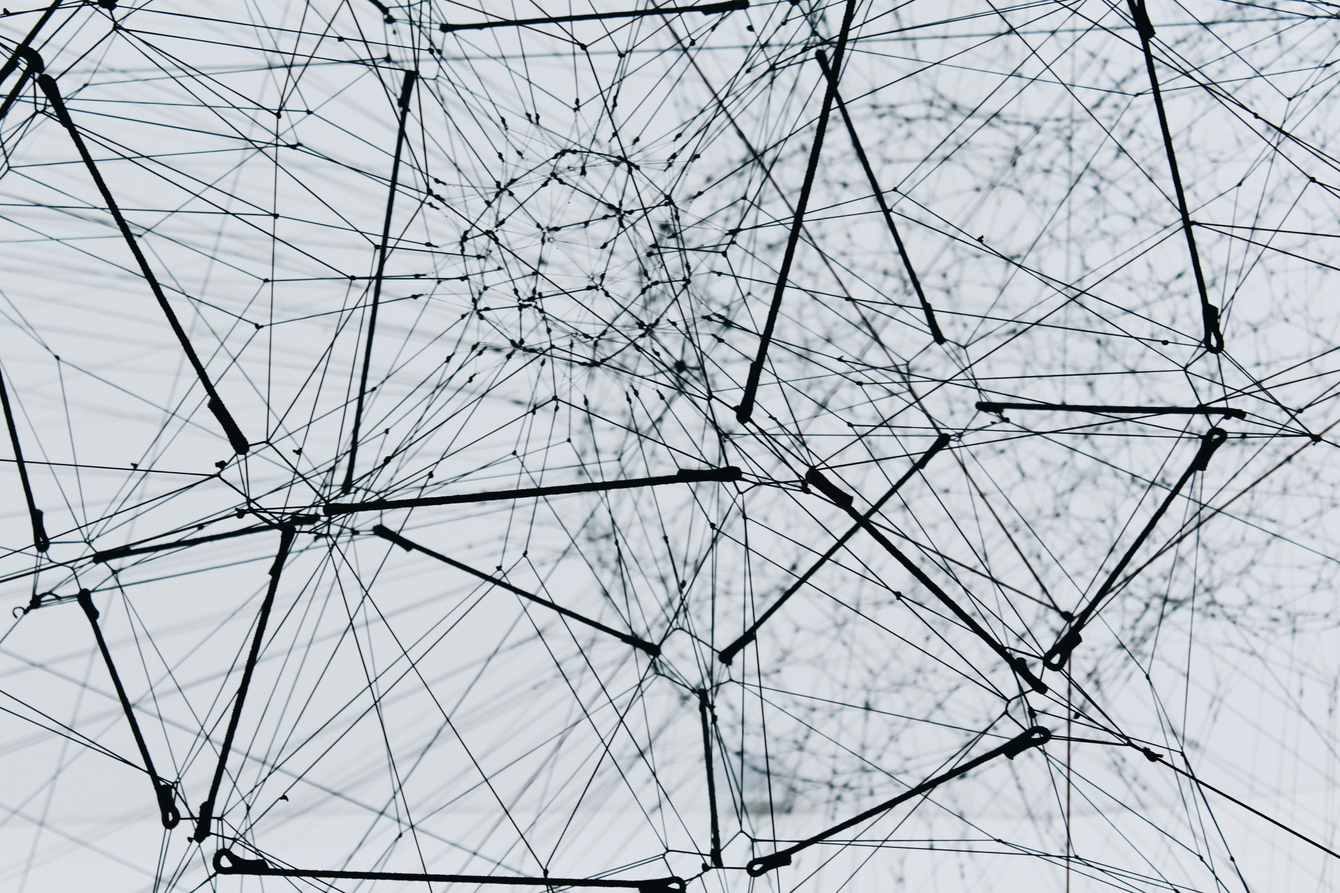
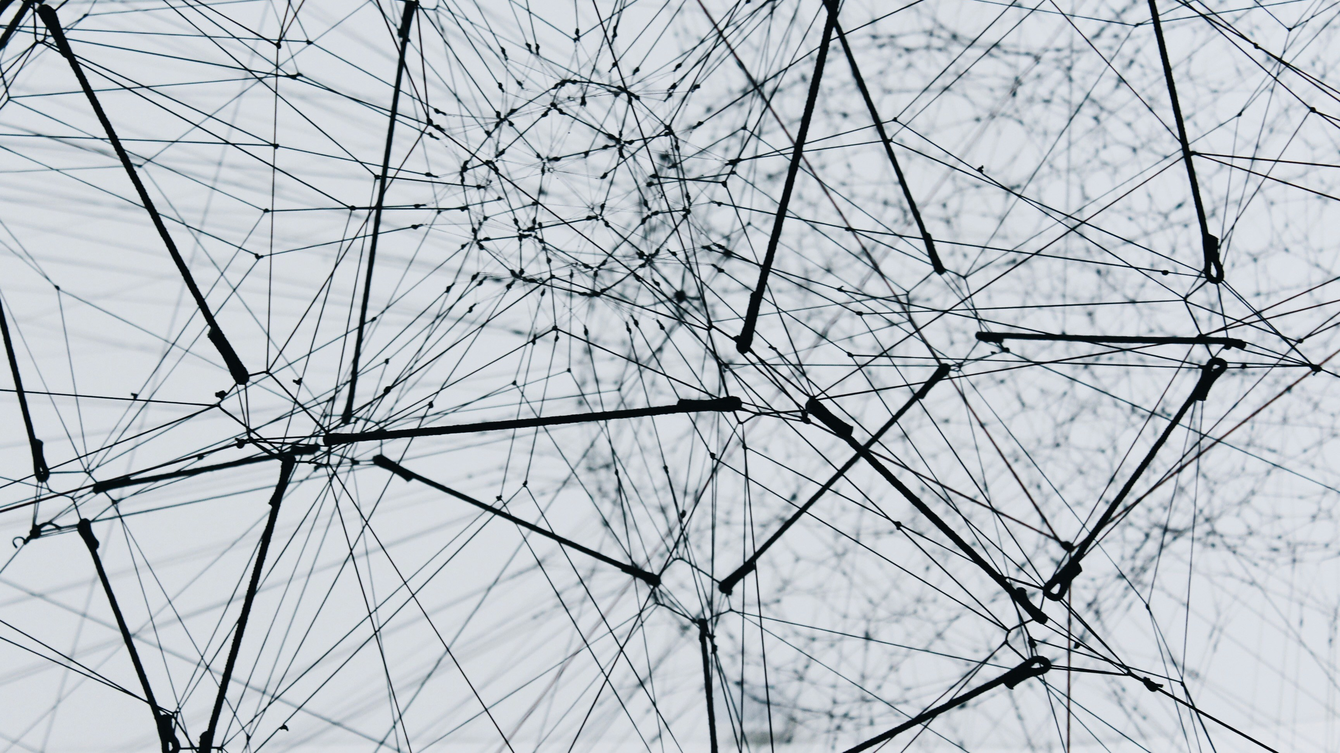
fix: Docker.01 개념 부연 설명 추가, 다이어그램 개선, Commands 섹션 제거
- 2절/3.1절 각 항목에 "왜 그런지" 부연 추가
- 볼륨 초기 복사·node_modules 다이어그램을 단계별로 재작성
- 5절에 node_modules/이미지 스냅샷 배경, 마운트 경로 우선순위 설명 추가
- 6. Commands 섹션 삭제 후 이후 섹션 번호 조정
- Q & A 전체를 토글로 접음

diff --git a/content/posts/docker-01/index.md b/content/posts/docker-01/index.md
@@ -23,9 +23,8 @@ summary: "How Docker persists data outside containers: bind mounts vs named and 
   </div>
   <div><a href="#4-comparison" style="color:var(--primary,inherit);text-decoration:none;font-weight:600;">4. Comparison</a></div>
   <div><a href="#5-node_modules-trick" style="color:var(--primary,inherit);text-decoration:none;font-weight:600;">5. node_modules Trick</a></div>
-  <div><a href="#6-commands" style="color:var(--primary,inherit);text-decoration:none;font-weight:600;">6. Commands</a></div>
-  <div><a href="#7-q--a" style="color:var(--primary,inherit);text-decoration:none;font-weight:600;">7. Q &amp; A</a></div>
-  <div><a href="#8-references" style="color:var(--primary,inherit);text-decoration:none;font-weight:600;">8. References</a></div>
+  <div><a href="#6-q--a" style="color:var(--primary,inherit);text-decoration:none;font-weight:600;">6. Q &amp; A</a></div>
+  <div><a href="#7-references" style="color:var(--primary,inherit);text-decoration:none;font-weight:600;">7. References</a></div>
 </div>
 </div>
 {{< /rawhtml >}}
@@ -90,16 +89,49 @@ Host: ./src ───────────────► Container: /app/src
        (양방향 즉시 반영)
 ```
 
-- 호스트에서 수정 → 컨테이너에 즉시 보임 (핫 리로드에 최적)
-- 컨테이너에서 수정 → 호스트에 즉시 보임
-- **덮어쓰기**: 컨테이너 경로에 원래 파일이 있어도 호스트 내용으로 가려짐. 호스트 디렉터리가 비어 있으면 컨테이너도 빈 디렉터리를 보게 됨[^docs-bind-over]
-- 호스트 경로 구조에 묶이므로 **이식성 낮음**
-- 호스트 파일시스템을 컨테이너에 노출 → 보안 부담[^docs-bind-cons]
-- 권한 문제 빈번: 호스트 경로는 있는데 컨테이너 실행 사용자(UID)가 읽기/쓰기 권한이 없는 경우[^docs-bind-cons]
-- **SELinux 환경(RHEL·Fedora·Rocky)** 에서는 레이블 때문에 Permission denied가 난다. `:z`(여러 컨테이너 공유) 또는 `:Z`(단독 사용) 옵션으로 재레이블링해야 한다[^docs-bind-selinux]
-- **파일 감시(inotify) 주의**: Docker Desktop(Mac·WSL2)에서는 호스트의 파일 변경 이벤트가 컨테이너로 전달되지 않는 경우가 있다. 핫 리로드가 안 먹으면 폴링을 켠다 (`CHOKIDAR_USEPOLLING=true`, Vite는 `server.watch.usePolling`)[^vite-poll]
+- **양방향 즉시 반영** — 호스트에서 고치면 컨테이너에, 컨테이너에서 고치면 호스트에 바로 보인다
+  - 복사가 아니다. **파일은 하나뿐이고 양쪽이 같은 실체를 볼 뿐**이다. 그래서 코드 한 줄 고칠 때마다 이미지를 다시 빌드할 필요가 없다
 
-**용도**: 개발 중 소스 코드 동기화, 설정 파일 주입(`:ro`), 로그/결과물을 호스트로 꺼내기
+- **덮어쓰기(obscure)** — 컨테이너 경로에 원래 파일이 있어도 호스트 내용에 가려진다. 호스트 디렉터리가 비어 있으면 컨테이너도 빈 디렉터리를 보게 된다[^docs-bind-over]
+  - **삭제가 아니라 "가려짐"이다.** 공식 문서도 *obscured* 라고 쓴다. 마운트를 떼면 원래 파일이 그대로 다시 보인다
+  - 두 폴더 내용이 합쳐지는 것도 아니다. `/app` 이라는 **주소가 통째로 호스트 경로로 갈아끼워지는 것**에 가깝다. USB를 `/media/usb` 에 마운트하면 그 폴더에 뭐가 있었든 USB 내용만 보이는 것과 같은, 리눅스 마운트의 기본 동작이다
+  - 영향 범위는 **마운트한 경로와 그 하위뿐**이다. `/app` 을 덮어도 `/usr/bin` 은 멀쩡하다
+  - 이미지 안에 파일이 있는데 컨테이너에서 안 보인다면 대부분 이것이다 (5절 `node_modules` 문제가 정확히 이 현상)
+
+- **이식성 낮음** — 호스트 경로 구조에 묶인다
+  - `-v /Users/aaa/proj:/app` 은 내 컴퓨터에서만 돈다. 동료 맥은 `/Users/kim/...`, 윈도우는 `C:\Users\...`, 서버엔 아예 없는 경로다. Named Volume이 `my-data:/app` 하나로 어디서나 도는 것과 대비된다
+
+- **보안 부담** — 호스트 파일시스템을 컨테이너에 노출한다[^docs-bind-cons]
+  - 컨테이너는 격리된 상자인데 bind mount는 거기에 바깥으로 통하는 구멍을 뚫는 것이다. 컨테이너 안 프로세스가 그 구멍으로 호스트 파일을 읽고 쓴다. 극단적으로 `-v /:/host` 면 호스트 전체를 만질 수 있다. **필요한 경로만, 가능하면 `:ro`** 가 원칙
+
+- **권한(UID) 문제** — 경로는 있는데 컨테이너 실행 사용자가 읽기/쓰기 권한이 없는 경우[^docs-bind-cons]
+  - 리눅스는 파일 주인을 이름이 아니라 **숫자(UID)** 로 기억한다. 호스트 파일 주인이 UID 501인데 컨테이너 프로세스가 UID 1000이면 그냥 거부된다
+  - 볼륨은 Docker가 권한을 맞춰 주지만, bind mount는 **호스트 파일의 원래 권한을 그대로 쓴다**. 컨테이너가 만든 파일이 호스트에서 `root` 소유로 남아 못 지우는 상황도 여기서 나온다
+
+- **SELinux 환경(RHEL·Fedora·Rocky)** — 레이블 때문에 Permission denied가 난다. `:z`(여러 컨테이너 공유) 또는 `:Z`(단독 사용)로 재레이블링해야 한다[^docs-bind-selinux]
+  - UID 문제와는 별개다. 파일마다 붙은 레이블이 안 맞으면 **권한이 맞아도 차단**된다. 우분투·맥에서는 만날 일이 없고, 회사 서버가 RHEL 계열이면 반드시 만난다
+
+- **파일 감시(inotify) 주의** — Docker Desktop(Mac·WSL2)에서는 호스트의 파일 변경 이벤트가 컨테이너로 전달되지 않는 경우가 있다[^vite-poll]
+  - 위의 "양방향 즉시 반영"과 모순처럼 보이지만 다른 얘기다. **파일 내용은 이미 동기화돼 있고, "바뀌었다"는 알림만 안 가는 것**이다
+  - 증상: 저장해도 핫 리로드가 안 되는데, 브라우저를 수동 새로고침하면 바뀐 내용이 나온다
+  - 해결은 알림을 포기하고 주기적으로 직접 확인(폴링)하게 만드는 것. 대가는 CPU 사용량이다
+
+    ```bash
+    CHOKIDAR_USEPOLLING=true    # webpack, CRA, Nuxt 등
+    ```
+    ```js
+    server: { watch: { usePolling: true } }   // Vite
+    ```
+
+**용도**
+
+| 용도 | 예시 | 왜 Bind Mount인가 |
+|---|---|---|
+| 소스 코드 동기화 | `./src:/app/src` | 고칠 때마다 재빌드하지 않으려고 |
+| 설정 파일 주입 | `./nginx.conf:/etc/nginx/nginx.conf:ro` | 이미지는 그대로 두고 설정만 갈아끼우려고. `:ro` 로 컨테이너가 못 고치게 막는다 |
+| 결과물 꺼내기 | `./output:/app/output` | 컨테이너가 만든 로그·리포트를 호스트에서 바로 열어보려고 |
+
+공통점은 **호스트가 그 파일을 직접 봐야 하는 경우**라는 것. 그게 아니면 Named Volume이 낫다.
 
 ---
 
@@ -134,20 +166,71 @@ volumes:
 **동작 특징**
 
 ```
-첫 마운트 (볼륨이 비어 있을 때):
-  Container /app/data (이미지 기본 파일) ──복사──► Volume
-                                                  │
-  이후부터는 Volume 내용이 /app/data 에 보임 ◄───────┘
+[1회차]  볼륨이 비어 있음
+
+   Container  /app/data                Volume  my-data
+   ┌────────────────────┐              ┌────────────────────┐
+   │ index.html         │ ── (1) ────► │ (empty)            │
+   │ 50x.html           │              │                    │
+   └────────────────────┘              └────────────────────┘
+
+   (1) copy   : 볼륨이 비었으므로 컨테이너 쪽 내용을 볼륨으로 복사
+
+   ┌────────────────────┐              ┌────────────────────┐
+   │ index.html         │ ◄──── (2) ── │ index.html         │
+   │ 50x.html           │              │ 50x.html           │
+   └────────────────────┘              └────────────────────┘
+
+   (2) mount  : 복사가 끝난 뒤 연결. 이제 /app/data 는 볼륨을 본다
+                파일은 같아 보이지만 실체는 이미지가 아니라 볼륨
+
+
+[2회차 이후]  볼륨에 내용이 있음
+
+   Container  /app/data                Volume  my-data
+   ┌────────────────────┐              ┌────────────────────┐
+   │ index.html         │ ◄──── (2) ── │ index.html         │
+   │ my-page.html       │              │ my-page.html       │  ← 1회차에 추가한 것
+   └────────────────────┘              └────────────────────┘
+
+   (1) copy   : 없음. 볼륨이 비어 있지 않으므로 건너뛴다
+   (2) mount  : 볼륨 내용이 그대로 보인다
+                → 이미지를 새 버전으로 올려도 볼륨의 옛 파일이 계속 보인다
 ```
 
-- 볼륨이 비어 있으면 **컨테이너 쪽 기존 내용을 볼륨으로 복사**해 준다. 예를 들어 `nginx` 이미지의 `/usr/share/nginx/html` 에 빈 볼륨을 걸면 이미지에 들어 있던 `index.html` 이 볼륨으로 복사된다[^docs-vol-over][^nerlich-init]
-  - 단, **DB 이미지의 초기화는 이것과 다른 메커니즘**이다. `postgres` 이미지의 데이터 디렉터리는 이미지 안에서 비어 있어 복사할 것이 없고, 실제로는 entrypoint가 데이터 디렉터리가 비었는지 보고 `initdb` 를 돌리는 것이다[^pg-init]
-- 컨테이너를 지워도 유지. `docker volume rm` 으로 직접 삭제해야 함[^docs-vol-rm]
-- 여러 컨테이너가 같은 볼륨 공유 가능
-- 볼륨 드라이버로 NFS, 클라우드 스토리지 연결 가능[^docs-vol-driver]
-- Mac/Windows에서는 Docker VM 내부에 저장되어 Bind Mount보다 I/O 빠름[^datacamp-perf]
+- **비어 있으면 채워 준다** — 볼륨이 비어 있으면 컨테이너 쪽 기존 내용을 볼륨으로 복사해 준다. `nginx` 이미지의 `/usr/share/nginx/html` 에 빈 볼륨을 걸면 이미지에 들어 있던 `index.html` 이 볼륨으로 복사된다[^docs-vol-over][^nerlich-init]
+  - 순서가 핵심이다. **복사를 먼저 하고 그 다음 연결**한다. 그래서 연결한 뒤에도 파일이 그대로 보인다. 빈 폴더를 bind mount하면 그냥 덮여서 텅 비는 것과 정반대다
+  - 겉보기엔 아무 일도 없어 보이지만 **실체가 바뀐다**. 그 파일은 이제 이미지가 아니라 볼륨에 있고, 수정하면 컨테이너를 지웠다 새로 만들어도 남는다
+  - 단, **DB 이미지의 초기화는 이것과 다른 메커니즘**이다. `postgres` 이미지의 데이터 디렉터리는 이미지 안에서 비어 있어 복사할 것이 없고, 실제로는 entrypoint가 데이터 디렉터리가 비었는지 보고 `initdb` 를 돌린다[^pg-init]
+    - 판단 주체가 Docker가 아니라 **postgres 자신**이다. 그래서 볼륨을 지우면(`docker compose down -v`) 다음 실행 때 초기화 SQL이 다시 돈다 — 개발 중 스키마를 갈아엎을 때 쓰는 방법
 
-**용도**: DB 데이터, 업로드 파일, 캐시 등 운영 환경의 영속 데이터
+- **컨테이너를 지워도 유지** — `docker volume rm` 으로 직접 삭제해야 한다[^docs-vol-rm]
+  - 컨테이너와 볼륨은 **수명이 따로**다. 컨테이너는 언제든 버리고 새로 만드는 일회용이지만 데이터는 그러면 안 되므로, 이 분리가 볼륨을 쓰는 가장 큰 이유다
+  - `postgres:15` 컨테이너를 지우고 `postgres:16` 으로 새로 만든 뒤 같은 볼륨을 연결하면, 데이터는 그대로 두고 버전만 올릴 수 있다
+  - 뒤집으면 함정이기도 하다. 컨테이너를 다 지워도 볼륨은 남아 디스크를 먹는다. `docker volume ls` 로 가끔 확인해야 한다
+
+- **여러 컨테이너가 같은 볼륨 공유 가능**
+  - 경로가 아니라 **이름표로 부르기 때문**에 가능하다. 업로드를 받는 `web` 과 후처리하는 `worker` 가 같은 `uploads` 볼륨을 물면 파일이 바로 오간다
+  - 다만 동시 쓰기 충돌은 Docker가 막아 주지 않는다. **DB 데이터 볼륨을 두 DB 컨테이너가 동시에 물면 데이터가 깨진다**
+
+- **볼륨 드라이버로 NFS, 클라우드 스토리지 연결 가능**[^docs-vol-driver]
+  - 볼륨의 실체를 호스트 디스크가 아닌 다른 것으로 바꿀 수 있다. 컨테이너는 여전히 `/app/data` 에 쓸 뿐, 아무것도 달라지지 않는다
+  - 이것도 이름표 방식이라 가능한 일이다. "호스트의 이 경로"라고 못박는 Bind Mount로는 안 된다. 서버 여러 대가 같은 데이터를 봐야 할 때 쓴다
+
+- **Mac/Windows에서는 Bind Mount보다 I/O 빠름**[^datacamp-perf]
+  - Docker는 리눅스 기술이라 Mac·Windows에서는 리눅스 VM 안에서 돈다. Bind Mount는 파일을 읽을 때마다 **VM ↔ 호스트 파일시스템 경계를 넘으며 번역**해야 하지만, 볼륨은 VM 안에 있어 그 경계를 넘지 않는다
+  - `node_modules` 처럼 파일이 수만 개인 폴더에서 차이가 크게 벌어진다. `node_modules` 에 볼륨을 거는 5절의 트릭이 **성능 면에서도 이득인 이유**다
+  - 리눅스에는 VM이 없으므로 이 차이가 없다
+
+**용도**
+
+| 용도 | 왜 Volume인가 |
+|---|---|
+| DB 데이터 | 컨테이너 버전을 올려도 데이터는 남아야 한다 |
+| 업로드 파일 | 사용자가 올린 것은 날리면 안 된다 |
+| 캐시·빌드 산출물 | 날아가도 되지만, 남아 있으면 다음 실행이 빨라진다 |
+
+공통점은 **호스트에서 직접 열어볼 일이 없다**는 것. 직접 봐야 하면 Bind Mount, 아니면 Volume — 이 기준 하나로 대부분 갈린다.
 
 ### 3.2 Anonymous Volume
 
@@ -204,12 +287,35 @@ docker volume prune -a → named 볼륨까지 포함해 미사용 전부 정리
 
 Node 프로젝트에서 프로젝트 루트 전체를 Bind Mount하면 문제가 생긴다.
 
-```
-이미지 빌드 시:   npm install → /app/node_modules 생성 ✔
+**배경 두 가지**
 
-실행 시 Bind Mount:
-  Host ./ (node_modules 없음 or 다른 OS용) ──► /app
-                                               └── node_modules  ← 호스트 것으로 덮임 ✘
+- `node_modules` 는 `npm install` 이 만들어 내는 의존성 폴더다. 파일이 수만 개라 Git에 올리지 않으므로(`.gitignore`) **호스트 프로젝트 폴더에 없는 것이 정상**이다. 게다가 일부 패키지는 설치 시점에 그 OS에 맞게 컴파일되므로, macOS에서 설치한 것을 리눅스 컨테이너에서 쓸 수 없다
+- **이미지는 빌드 시점의 스냅샷**이다. Dockerfile의 `COPY . .` 는 연결이 아니라 복사라서, 이후 호스트에서 코드를 고쳐도 이미지 안의 사본은 그대로다. 그래서 개발 중에는 매번 `docker build` 하는 대신 Bind Mount로 호스트 원본을 직접 보게 한다 — 그 편의가 아래 문제를 같이 데려온다
+
+```
+[1] 이미지 빌드 (docker build)
+
+    Image  /app
+    ┌────────────────────┐
+    │ package.json       │
+    │ index.js           │
+    │ node_modules/      │   ← npm install 로 설치됨 (리눅스용 바이너리)
+    └────────────────────┘
+
+
+[2] 실행:  -v .:/app     ← /app 이 통째로 호스트로 교체된다
+
+    Host  ./                            Container  /app
+    ┌────────────────────┐              ┌────────────────────┐
+    │ package.json       │ ───────────► │ package.json       │
+    │ index.js           │              │ index.js           │
+    │ (no node_modules)  │              │ (no node_modules)  │   ← 가려짐
+    └────────────────────┘              └────────────────────┘
+
+    호스트에 node_modules 가 없거나(설치 안 함),
+    있어도 macOS/Windows용이라 리눅스 컨테이너에서 못 쓰는 바이너리다.
+
+    결과:  Error: Cannot find module 'express'
 ```
 
 컨테이너에서 설치한 `node_modules`가 호스트의 (비어 있거나 호환 안 되는) 것으로 덮어써진다. 해결책은 **더 깊은 경로에 익명 볼륨을 하나 더 거는 것**.[^oneuptime-dev]
@@ -222,12 +328,72 @@ services:
       - /app/node_modules      # Anonymous Volume — 컨테이너 쪽 node_modules 유지
 ```
 
-```
-/app              ← Bind Mount (호스트)
-└── node_modules  ← Anonymous Volume (더 구체적인 경로가 우선)
+두 번째 줄은 **호스트와 연결하는 것이 아니다.** 콜론이 없어 호스트 쪽 경로가 아예 지정되지 않았으므로 Docker 관리 영역의 익명 볼륨이 붙는다. 목적 자체가 **그 경로만 호스트를 피하게 하는 것**이다.
+
+```yaml
+- ./node_modules:/app/node_modules   # ✘ 호스트와 연결 — 없거나 다른 OS용이라 문제 그대로
+- /app/node_modules                  # ✔ 호스트가 아닌 볼륨에 연결
 ```
 
-Docker는 더 구체적인(깊은) 경로의 마운트를 우선하므로 `/app/node_modules`는 호스트 영향을 받지 않는다.
+볼륨은 비어 있으면 컨테이너 쪽 내용을 복사해 오므로(3.1절), 이미지에 있던 **리눅스용** `node_modules` 가 볼륨으로 옮겨 담긴 뒤 유지된다.
+
+```
+[3] 해결:  /app/node_modules 자리에만 마운트를 하나 더 얹는다
+
+    적용 순서 (경로가 얕은 것부터)
+
+      1) /app                ← Bind Mount        : 호스트 ./ 로 교체
+      2) /app/node_modules   ← Anonymous Volume  : 그 위에 한 칸 더 덮음
+
+    결과
+
+    Container  /app
+    ┌───────────────────────────────┐
+    │ package.json                  │   ← 호스트 (Bind Mount)
+    │ index.js                      │   ← 호스트 (Bind Mount)
+    │ node_modules/                 │   ← 볼륨. 이미지에 있던 것이 복사돼 유지
+    │   ├ express/                  │
+    │   └ ...                       │
+    └───────────────────────────────┘
+
+    소스는 호스트와 실시간 동기화되고,
+    node_modules 만 컨테이너(리눅스)용 그대로 남는다.
+```
+
+**왜 `/app` 을 덮었는데 그 아래 `node_modules` 는 안 덮이나**
+
+마운트는 폴더를 통째로 소유하는 것이 아니라 **경로 단위 규칙**으로 등록된다. 커널은 경로를 찾을 때 **가장 길게 일치하는 마운트 지점**을 쓴다.
+
+```
+등록된 마운트
+  /app                → 호스트 폴더
+  /app/node_modules   → 볼륨
+
+/app/src/index.js          → /app 이 일치        → 호스트에서 찾음
+/app/node_modules/express  → /app/node_modules 가
+                             더 길게 일치         → 볼륨에서 찾음
+```
+
+`/app` 규칙이 무효화된 것이 아니라, **더 구체적인 경우에만 예외**가 생긴 것이다. Docker는 마운트를 걸기 전에 목적지 경로가 **짧은 것부터 정렬**하므로, compose에 순서를 거꾸로 써도 `/app` → `/app/node_modules` 순으로 처리된다.
+
+Docker만의 기능이 아니라 리눅스 마운트의 기본 동작이다. 서버에서 `/` 아래에 `/home`, `/var` 를 각각 다른 디스크로 마운트하는 것과 같다.
+
+```bash
+mount /dev/sdb1 /media/usb          # USB 전체
+mount /dev/sdc1 /media/usb/photos   # photos 자리만 다른 디스크
+```
+
+**직접 확인**
+
+```bash
+docker run --rm -v $(pwd):/app -v /app/test alpine sh -c \
+  "mkdir -p /app/test && echo hi > /app/test/a.txt && echo hi > /app/b.txt"
+
+ls b.txt      # → 있음.  /app 은 호스트에 연결돼 있으므로
+ls test/      # → 없음.  /app/test 는 볼륨에 연결돼 있으므로
+```
+
+같은 컨테이너에서 쓴 파일인데 한쪽만 호스트에 남는다. 경로에 따라 저장되는 곳이 다르다는 증거다.
 
 **함정 — Compose는 재생성 시 익명 볼륨을 재사용한다**
 
@@ -239,79 +405,32 @@ docker compose up --build -V     # -V = --renew-anon-volumes
 
 ---
 
-## 6. Commands
+## 6. Q & A
 
-```bash
-# 볼륨 관리
-docker volume ls                     # 목록
-docker volume inspect my-data        # 실제 호스트 경로(Mountpoint) 등 확인
-docker volume rm my-data             # 삭제
-docker volume prune                  # 미사용 '익명' 볼륨만 (Docker 23.0+ 기본값)
-docker volume prune -a               # named 포함, 미사용 전부
+{{< rawhtml >}}
+<details style="border:1px solid var(--primary,#888);border-radius:8px;padding:12px 16px;margin:1rem 0;">
+<summary style="cursor:pointer;font-weight:600;color:var(--primary,inherit);">질문 5개 — 클릭해서 펼치기</summary>
+{{< /rawhtml >}}
 
-# 볼륨 내용 들여다보기 (앱 컨테이너 없이)
-docker run --rm -v my-data:/d alpine ls -la /d
-docker run -it --rm -v my-data:/d alpine sh
-
-# 볼륨 백업 / 복원 (tar로 호스트에 꺼내기)
-docker run --rm -v my-data:/d -v $(pwd):/backup alpine \
-  tar czf /backup/my-data.tgz -C /d .
-docker run --rm -v my-data:/d -v $(pwd):/backup alpine \
-  tar xzf /backup/my-data.tgz -C /d
-
-# 컨테이너가 어떤 마운트를 쓰는지 확인
-docker inspect <ctr> --format '{{json .Mounts}}' | jq
-```
-
-**직접 확인해 볼 실험**
-
-```bash
-# 1) 익명 볼륨 + --rm  → 종료 후 volume ls 에 남지 않음
-docker run --rm -v /data alpine sh -c "echo hi > /data/a"
-docker volume ls
-
-# 2) 익명 볼륨, --rm 없이 → rm 해도 볼륨이 남아 있음
-docker run --name t -v /data alpine sh -c "echo hi > /data/a"
-docker rm t
-docker volume ls          # 해시 이름 볼륨 잔류 확인
-
-# 3) Named Volume 초기 복사 확인
-docker run --rm -v nginx-html:/usr/share/nginx/html nginx:alpine ls /usr/share/nginx/html
-#  → index.html 등 이미지 기본 파일이 볼륨으로 복사돼 있음
-
-# 4) Bind Mount 덮어쓰기 확인
-mkdir empty && docker run --rm -v $(pwd)/empty:/usr/share/nginx/html nginx:alpine ls /usr/share/nginx/html
-#  → 비어 있음 (이미지 파일이 가려짐)
-
-# 뒷정리
-docker volume rm nginx-html   # 실험 3: --rm 을 붙였어도 named 볼륨은 남는다
-docker volume prune           # 실험 2가 남긴 익명 볼륨 정리
-rmdir empty
-```
-
----
-
-## 7. Q & A
-
-### 7.1 `-v`와 `--mount`는 뭐가 다른가?
+### 6.1 `-v`와 `--mount`는 뭐가 다른가?
 
 기능은 같다. `-v`는 짧고 `호스트:컨테이너:옵션` 순서 규칙을 외워야 하며, 호스트 경로가 없으면 **자동 생성**해 버린다. `--mount`는 `type=bind,source=...,target=...` 으로 명시적이고, Bind Mount 시 소스 경로가 없으면 **에러**를 낸다. 실수 방지 측면에서 `--mount`가 안전하다.[^docs-bind-syntax]
 
-### 7.2 Compose에서 `./data:/x` 와 `data:/x` 차이는?
+### 6.2 Compose에서 `./data:/x` 와 `data:/x` 차이는?
 
 앞에 `./`, `/`, `~`가 붙으면 Bind Mount, 이름만 있으면 Named Volume이다.[^devto] Named Volume은 최상위 `volumes:` 키에 선언해야 하며, 실제 볼륨 이름은 `{프로젝트명}_{볼륨명}` 으로 만들어진다.[^docs-compose] 단 `name:` 을 직접 지정하거나 `external: true` 로 기존 볼륨을 참조하면 프로젝트명 접두어가 붙지 않는다.[^compose-vol-name]
 
-### 7.3 Named Volume은 이미 데이터가 있어도 복사하나?
+### 6.3 Named Volume은 이미 데이터가 있어도 복사하나?
 
 아니다. **볼륨이 비어 있을 때만** 첫 마운트 시 복사한다.[^docs-vol-over][^nerlich-init] 이미 데이터가 있는 볼륨을 새 이미지 버전에 마운트하면 이미지의 새 기본 파일은 반영되지 않는다.
 
 혼동하기 쉬운데, **DB 초기화 스크립트가 두 번째 실행부터 안 도는 것은 이 복사 규칙 때문이 아니다.** `postgres` 이미지는 "데이터 디렉터리가 비어 있을 때만" `/docker-entrypoint-initdb.d` 를 실행한다 — 원문: *"scripts in `/docker-entrypoint-initdb.d` are only run if you start the container with a data directory that is empty"*. 볼륨 복사가 아니라 **entrypoint의 판단**이다.[^pg-init]
 
-### 7.4 볼륨 데이터는 어디에 실제로 있나?
+### 6.4 볼륨 데이터는 어디에 실제로 있나?
 
 Linux는 `docker volume inspect` 의 `Mountpoint`(보통 `/var/lib/docker/volumes/<name>/_data`). Mac/Windows Docker Desktop은 Linux VM 안에 있어서 호스트에서 직접 경로로 접근할 수 없다. 내용을 보려면 유틸리티 컨테이너에 마운트해서 본다.
 
-### 7.5 운영 환경에서 Bind Mount를 쓰면 안 되나?
+### 6.5 운영 환경에서 Bind Mount를 쓰면 안 되나?
 
 금지는 아니다. 호스트가 직접 읽고 써야 하는 파일(설정 주입, 로그 수집, 결과물 export)에는 의도적으로 쓴다. 다만 DB 같은 장기 데이터는 호스트 경로 의존·권한 문제·백업 설계 때문에 Named Volume이 기본값이다.[^datacamp-faq]
 
@@ -321,9 +440,13 @@ Linux는 `docker volume inspect` 의 `Mountpoint`(보통 `/var/lib/docker/volume
 
 마운트 시 "덮느냐, 복사해 오느냐"와 삭제 시 "남느냐, 같이 지워지느냐" 두 축만 잡으면 세 방식이 구분된다.
 
+{{< rawhtml >}}
+</details>
+{{< /rawhtml >}}
+
 ---
 
-## 8. References
+## 7. References
 
 각주 번호에 마우스를 올리면 아래 내용이 그대로 뜬다. 각 항목은 **문서 → 섹션 → 내용 → 링크** 순으로 적었고, 링크는 그 섹션으로 바로 이동한다.
 
